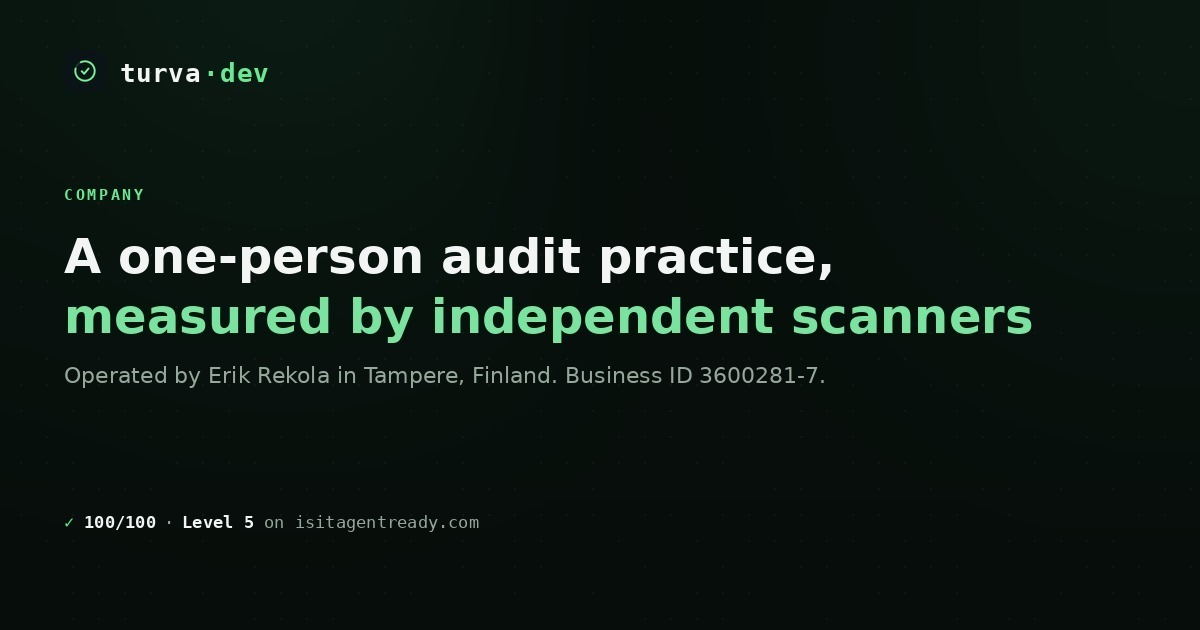
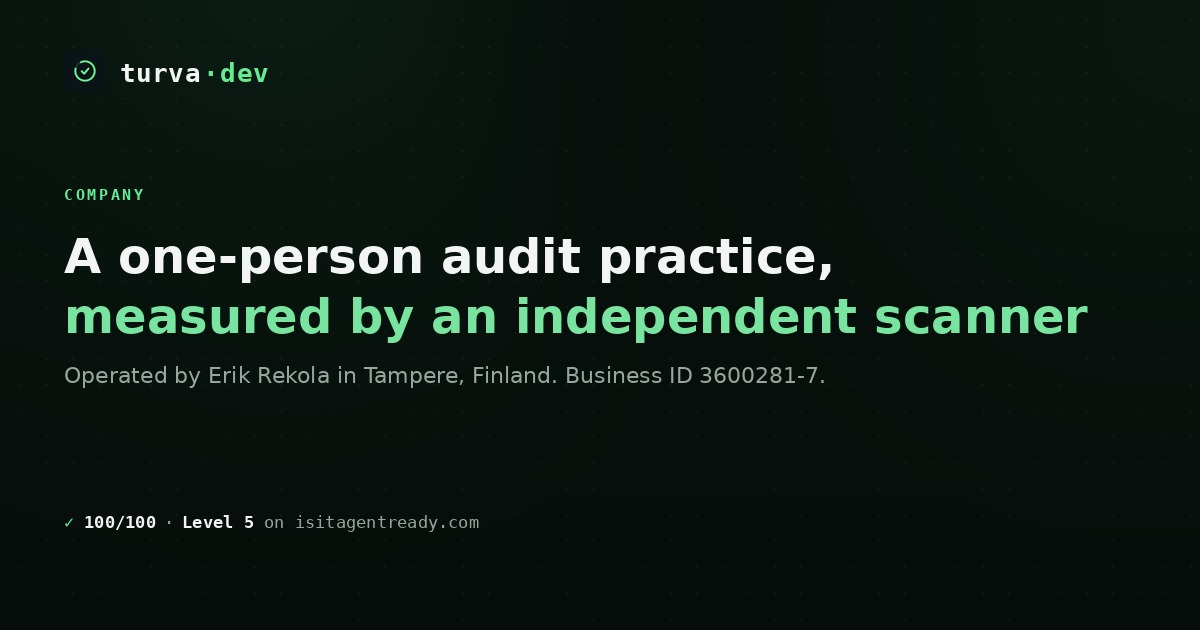
v3.57.0: homepage repetition pass, subpage og:image:alt, two share cards to one scanner

Changed region(s): [[0.3392, 0.4825, 0.925, 0.5429]]

diff --git a/turva-worker/src/worker.js b/turva-worker/src/worker.js
@@ -1,5 +1,5 @@
 // src/worker.js
-// turva.dev worker v3.56.0 - full-Worker audit fixes (2026-07-24 taysauditti). The signed MCP server card no longer declares capabilities the server does not implement: resources and prompts are dropped from capabilities, because the live server declares only tools and answers -32601 Method not found to resources/list, prompts/list and resources/templates/list, so the Ed25519 signature was attesting to a bigger promise than the code delivers (measured 2026-07-24, same version, same minute, cache-buster confirmed). MCP version to 1.2.7, and the card MUST be re-signed with julkaisu/resign-server-card-local.mjs before deploy. The ACP discovery document declares https://turva.dev/api/acp as api_base_url and that URL returned the site's HTML 404; it now returns a small JSON index naming the checkout_sessions resource, the same treatment /api and /api/v1 already had. workers_dev is off in wrangler.jsonc, so the site is served on the turva.dev zone only and not additionally on a *.workers.dev hostname outside the zone's rules. llms.txt, ai-plugin.json and agent.json are untouched, so the server card is the only manifest re-signed. Carries v3.55.1: P2-8 wording fix: the agent-readiness scanner is singular in the three remaining plural copy spots (validator FAQ, buyer guide answer + its FAQ JSON-LD copy, company referee line); the method now reads as one independent scanner plus published security scans everywhere current; content-only change, no signed surface touched, no re-sign. Carries v3.55.0: Codeberg mirrors removed (Tek-64): Codeberg's new Terms of Use (2026-07-24 banner) disallow cryptocurrency-related projects and projects mostly written with generative AI tools, both of which describe this repo (real on-chain wallet in the payment surface, AI-assisted build), so the mirrors were deleted proactively the same day. Changes: a dated July 24 update note added to /blog/moving-source-to-codeberg after the July 21 note, the /tools validator paragraph drops the Codeberg mirror clause (GitHub only), and the sameAs arrays (#business, #person, blog-author JSON-LD and HOME_JSON) now list github.com/erekola instead of codeberg.org/erekola, aligning machine-readable identity with the canonical host (closes the 2026-07-24 audit P2-7). No signed surface changes: llms.txt keeps only the dated post title, so no re-sign. Carries v3.54.1: two Show HN audit corrections (2026-07-24 critical-reader audit): the moving-source-to-codeberg post gains a dated July 21 update note recording the Tek-59 flip back (GitHub canonical, Codeberg push mirror; the July 7 note's "Codeberg stays canonical for every source link" no longer described the live site), and the signed llms.txt gains the missing /blog/finishing-the-optional-commerce-checks entry (in PAGE_MARKDOWN, the /blog index and the sitemap since v3.52.0, never listed in llms.txt), so llms.txt MUST be re-signed (julkaisu/resign-llms-local.mjs) before deploy; SITEMAP_LASTMOD bumped to 2026-07-24. Carries v3.54.0: a trailing slash on any page path now redirects 301 to the canonical slashless URL. Before this only /services/, /company/, /contact/ and /legal/ worked, because those four were hand-written into LEGACY_REDIRECTS; /guides/, /blog/, /tools/, /badge/, /llms-txt-validator/ and every /guides/<slug>/ and /blog/<slug>/ returned 404. The normalizer derives the canonical path from PAGE_MARKDOWN instead of a maintained list, so a new page is covered the day it is added, and a path with no PAGE_MARKDOWN entry still returns an honest 404. Agent-API routes are unaffected: /api and /api/ keep returning the x402 402 challenge and /api/v1 and /api/v1/ keep returning the endpoint index. The Hashnode cross-post branch tolerates a trailing slash too, so /blog/<guide-slug>/ redirects straight to the guide. Carries v3.53.2: reworded the enforcing-the-rate-limit blog post meta description, dropping the orphaned scanner-point clause left over when the StartupHub scoreboard section was removed (no signed surface changed, no re-sign). Carries v3.53.1: finished the StartupHub removal: the remaining dated blog posts cleaned to one scanner (b2b reframed to isitagentready Level, cheaper-pages-revisited and re-checking-the-guides and publishing-an-ai-catalog de-attributed, the rate-limit post's StartupHub scoreboard section removed) and two meta descriptions; the ai-plugin/agent description_for_model made singular and re-signed; internal KB (context.md, audit method docs) aligned. No served surface names StartupHub now outside this dated version-history comment. Carries v3.53.0: StartupHub removed completely site-wide (Tek-60): agent-readiness copy on services, process, contact and JSON-LD moved from two independent scanners to one (isitagentready), with the published security scans as the second independent measurement; three blog posts built on the two-scanner method unpublished (two-scanner-audit-method, auditing-the-auditor, honest-agent-commerce-checks) and three lighter mentions cleaned (cheaper-pages-revisited, agent-readiness-finnish-b2b, moving-off-prerender); the signed llms.txt dropped those three post entries and was re-signed; dated measurement snapshots kept. Carries v3.52.1: footer Business ID linked to the YTJ business register (tietopalvelu.ytj.fi/yritys/3600281-7); display only, no scanner-score change. Carries v3.52.0: new blog post /blog/finishing-the-optional-commerce-checks on completing the optional commerce checks (x402 and MPP green, with the real Stripe product links), added to PAGE_MARKDOWN, the /blog index, sitemap, meta and canonical, plus a Related pointer from the earlier honest-agent-commerce-checks post; agent-readiness and web-security measured dates refreshed to 2026-07-20 with scores unchanged (isitagentready 100/100 Level 5, Hardenize 13/13, Internet.nl 98/100). Carries v3.51.1: homepage scan board and evidence caption now show Commerce 100/100 instead of "optional", reflecting the v3.51.0 commerce-green result (Commerce 50 -> 100 on isitagentready; display only, no scanner-score change). Carries v3.51.0: x402 and MPP driven green on isitagentready without faking settlement: MPP x-payment-info flattened to the single-offer shorthand (intent/method/amount direct, the form the scanner reads and the IETF payment-discovery draft permits); and because the scanner probes GET /api for a 402, the /api and /api/ routes now return the canonical x402 402 challenge (real payTo wallet on Base, resource /api) while the free endpoint index moves to /api/v1. Free discovery stays open at /openapi.json, /.well-known/* and /api/v1; the 402 is a real challenge, settlement stays quote-on-request and no auto-settlement is claimed. Carries v3.50.0: Stripe added as a real fiat/card payment rail (turva.dev's Stripe account is active, charges enabled): three live Payment Links (audit 6500 EUR one-time, advisory 3000 EUR/month, implementation 1500 EUR/day) and a stripe offer (method stripe, amount in EUR cents, currency eur, the Payment Link URL in the description) added alongside the x402 offer in every payable operation's OpenAPI x-payment-info, so MPP payment discovery detects a real method turva actually accepts. This is not the fake Stripe declaration removed earlier: the rail is real now. x402 stays declared too; isitagentready still does not detect it and x402 is optional Commerce, so it is left as an honest red. Carries v3.48.0: x402 migrated v1 to v2 so the sole remaining scanner (isitagentready) can detect the payment surface: CAIP-2 network eip155:8453 (was base), the amount field (was the old required-amount key), x402Version 2, and the standard PAYMENT-REQUIRED base64 header on the 402 responses (serve402 and serveX402Root) alongside the existing accept-payment/x-payment-required. Still quote-on-request: the 402 challenge is real, settlement is not auto-wired. mpp stays honestly red because isitagentready's check only accepts tempo/stripe/lightning/card, not turva's real x402/USDC method. Carries v3.47.0: StartupHub removed site-wide: isitagentready.com (Cloudflare's scanner) is the sole named scanner, the homepage hero, terminal, board, stats and evidence rebuilt to its 100/100 Level 5 result plus the Internet.nl security stat, and #1, A+ and the Why-99 callout dropped; every startuphub.ai reference and link is gone from the front door, README, docs/agent-readiness.md, facts.json and verify.mjs (dated blog posts kept as history). x402-mesh removed from all surfaces (var, route, Link header, api-catalog, OpenAPI, llms.txt, ai.txt) and llms.txt re-signed. OpenAPI x-payment-info reshaped to the MPP standard (offers with intent charge, method x402, amount in USDC base units, currency the USDC contract on Base) plus a top-level x-service-info, so mpp and x402 are declared in the standard discovery form; settlement stays quote-on-request and the 402 challenge is authoritative. Carries v3.46.0: the /llms-txt-validator page now lists the eighth structural check (inline HTML in the file is flagged as a warning, the no-html check the JSON and npm package already emit); What it checks and the validator FAQ updated from seven to eight, no llms.txt change and no re-sign. Carries v3.45.0: blog post /blog/the-twin-is-the-page (the T3 conversion writeup) added to PAGE_MARKDOWN, the /blog index, the sitemap (LASTMOD 2026-07-19) and the signed llms.txt, re-signed. Carries v3.44.0: the services MCP card's duplicated transport bullet dropped from the twin. T3 (Tek-56) complete: all ten card pages render their prose from PAGE_MARKDOWN at request time via the md* helpers after markdownToHtml, so every sentence lives once and a page cannot drift from its markdown twin. Structure stays hand-built (kvs grids, the validator form, FAQ shells, price cards, hero/terminal/board/stats/steps chrome and the contact block on the homepage), and tools/verify.mjs guards the end state: no literal prose paragraphs in card functions outside two named homepage exceptions, every twin section rendered or declared markdown-only. Carries v3.42.0: erikrekola.link dropped from the #person and blog-author sameAs arrays (the two Carries-notes below describe the earlier state): Gravatar is the single profile pointer, matching Wikidata P856. Carries v3.39.0: StartupHub row removed from the footer: the company-profile URL (startuphub.ai/startups/turva-dev) has served 404 to logged-out visitors since 2026-07-17 and a footer link to a 404 fails the read-every-line bar; the leaderboard links (startuphub.ai/agent-readiness) are a different path and stay. Restore the row if the listing returns. Carries v3.38.0: Gravatar footer row with rel="me" to gravatar.com/erekola beside the Mastodon rel="me" row, and gravatar.com/erekola in the #person and blog-author sameAs arrays next to erikrekola.link. Carries v3.37.0: tools in every nav menu (four inline nav blocks + cardPageNav link /tools between blog and company; the page shipped in v3.34.0 but no menu linked it). Carries v3.36.0: SITEMAP_LASTMOD unstuck from 2026-07-02 (now 2026-07-18; bump it whenever page content changes), agent-secret-hygiene gets its own OG card, /checkout redirects to /services, and the MCP server card moves to 1.2.2 (index.ts "registered company" corrected to "registered business", re-signed). Carries v3.35.0 (npm package on /tools + validator FAQ, erikrekola.link in sameAs). Carries v3.34.0 (/tools page), v3.33.0 (rate limit post in signed llms.txt) and the v3.32.0 homepage design patch batch: og:image:alt carries the scanner claims, hero + terminal + evidence rows unified to the corrected attribution (100/100 + Level 5 isitagentready.com, 99/100 + A+ + #1 startuphub.ai), a "Why 99 and not 100?" callout on the scan board in both twins linking the rate limit post, two example paragraphs pruned, audit tag is fixed scope. Standing rate limit state unchanged since v3.29/v3.30: RateLimit-Policy is the only rate limit field sent (draft-11 static policy form), enforcement 100/60 s per IP per CF location via the Workers binding, 429 + Retry-After past it, fail open; the draft RateLimit field is not sent because its r parameter is REQUIRED and limit() returns only { success }.
+// turva.dev worker v3.57.0 - homepage repetition pass (2026-07-26, patch list 4). The "What an agent sees" demo printed the first 14 markdown lines, which included the whole "Audits, advisory, and implementation for product teams" section that renders again immediately below it, so a reader met the same ~120 words twice; the block now stops after that heading and carries a visible truncation marker, and the intro says it shows the opening of the markdown rather than the whole response. The Evidence stat cards are gone: 100/100 was stated three times inside four lines (evidence lede, stat card, evidence bullet) and Internet.nl 98/100 twice (stat card, bullet). The cards were the copies carrying no link, while the bullets that stay carry both the numbers and the scanner URLs the markdown twin needs, so the redundancy was removed from HTML chrome only and PAGE_MARKDOWN was untouched (verify.mjs anchors its agent-readiness n>=3 and security n>=1 Measured counts to the twin). The now-unused .stats and .stat CSS rules went with them. The two hero badge pills were not parallel, the second continued the first, and are one pill now; the verification terminal prints the measurement date, derived from the Evidence lede rather than hardcoded, so the hero no longer shows 100/100 with no date attached and no fifth measured-date sync point was created. The "Who I am" closing sentence dropped two more repetitions of the "either ... or it does not" construction plus the aphoristic "Measurable either way" tail, leaving the single instance in process step 03. Subpage og:image:alt on /services, /company and /blog described nothing ("turva.dev services and pricing", "turva.dev company information", "turva.dev blog") and now describe what each share card actually shows. Two share cards still said "independent scanners" in the plural four days after v3.55.1 made the copy singular: og-company.jpg and og-blog.jpg were regenerated to one scanner. No signed surface touched, no re-sign. Carries v3.56.0: full-Worker audit fixes (2026-07-24 taysauditti). The signed MCP server card no longer declares capabilities the server does not implement: resources and prompts are dropped from capabilities, because the live server declares only tools and answers -32601 Method not found to resources/list, prompts/list and resources/templates/list, so the Ed25519 signature was attesting to a bigger promise than the code delivers (measured 2026-07-24, same version, same minute, cache-buster confirmed). MCP version to 1.2.7, and the card MUST be re-signed with julkaisu/resign-server-card-local.mjs before deploy. The ACP discovery document declares https://turva.dev/api/acp as api_base_url and that URL returned the site's HTML 404; it now returns a small JSON index naming the checkout_sessions resource, the same treatment /api and /api/v1 already had. workers_dev is off in wrangler.jsonc, so the site is served on the turva.dev zone only and not additionally on a *.workers.dev hostname outside the zone's rules. llms.txt, ai-plugin.json and agent.json are untouched, so the server card is the only manifest re-signed. Carries v3.55.1: P2-8 wording fix: the agent-readiness scanner is singular in the three remaining plural copy spots (validator FAQ, buyer guide answer + its FAQ JSON-LD copy, company referee line); the method now reads as one independent scanner plus published security scans everywhere current; content-only change, no signed surface touched, no re-sign. Carries v3.55.0: Codeberg mirrors removed (Tek-64): Codeberg's new Terms of Use (2026-07-24 banner) disallow cryptocurrency-related projects and projects mostly written with generative AI tools, both of which describe this repo (real on-chain wallet in the payment surface, AI-assisted build), so the mirrors were deleted proactively the same day. Changes: a dated July 24 update note added to /blog/moving-source-to-codeberg after the July 21 note, the /tools validator paragraph drops the Codeberg mirror clause (GitHub only), and the sameAs arrays (#business, #person, blog-author JSON-LD and HOME_JSON) now list github.com/erekola instead of codeberg.org/erekola, aligning machine-readable identity with the canonical host (closes the 2026-07-24 audit P2-7). No signed surface changes: llms.txt keeps only the dated post title, so no re-sign. Carries v3.54.1: two Show HN audit corrections (2026-07-24 critical-reader audit): the moving-source-to-codeberg post gains a dated July 21 update note recording the Tek-59 flip back (GitHub canonical, Codeberg push mirror; the July 7 note's "Codeberg stays canonical for every source link" no longer described the live site), and the signed llms.txt gains the missing /blog/finishing-the-optional-commerce-checks entry (in PAGE_MARKDOWN, the /blog index and the sitemap since v3.52.0, never listed in llms.txt), so llms.txt MUST be re-signed (julkaisu/resign-llms-local.mjs) before deploy; SITEMAP_LASTMOD bumped to 2026-07-24. Carries v3.54.0: a trailing slash on any page path now redirects 301 to the canonical slashless URL. Before this only /services/, /company/, /contact/ and /legal/ worked, because those four were hand-written into LEGACY_REDIRECTS; /guides/, /blog/, /tools/, /badge/, /llms-txt-validator/ and every /guides/<slug>/ and /blog/<slug>/ returned 404. The normalizer derives the canonical path from PAGE_MARKDOWN instead of a maintained list, so a new page is covered the day it is added, and a path with no PAGE_MARKDOWN entry still returns an honest 404. Agent-API routes are unaffected: /api and /api/ keep returning the x402 402 challenge and /api/v1 and /api/v1/ keep returning the endpoint index. The Hashnode cross-post branch tolerates a trailing slash too, so /blog/<guide-slug>/ redirects straight to the guide. Carries v3.53.2: reworded the enforcing-the-rate-limit blog post meta description, dropping the orphaned scanner-point clause left over when the StartupHub scoreboard section was removed (no signed surface changed, no re-sign). Carries v3.53.1: finished the StartupHub removal: the remaining dated blog posts cleaned to one scanner (b2b reframed to isitagentready Level, cheaper-pages-revisited and re-checking-the-guides and publishing-an-ai-catalog de-attributed, the rate-limit post's StartupHub scoreboard section removed) and two meta descriptions; the ai-plugin/agent description_for_model made singular and re-signed; internal KB (context.md, audit method docs) aligned. No served surface names StartupHub now outside this dated version-history comment. Carries v3.53.0: StartupHub removed completely site-wide (Tek-60): agent-readiness copy on services, process, contact and JSON-LD moved from two independent scanners to one (isitagentready), with the published security scans as the second independent measurement; three blog posts built on the two-scanner method unpublished (two-scanner-audit-method, auditing-the-auditor, honest-agent-commerce-checks) and three lighter mentions cleaned (cheaper-pages-revisited, agent-readiness-finnish-b2b, moving-off-prerender); the signed llms.txt dropped those three post entries and was re-signed; dated measurement snapshots kept. Carries v3.52.1: footer Business ID linked to the YTJ business register (tietopalvelu.ytj.fi/yritys/3600281-7); display only, no scanner-score change. Carries v3.52.0: new blog post /blog/finishing-the-optional-commerce-checks on completing the optional commerce checks (x402 and MPP green, with the real Stripe product links), added to PAGE_MARKDOWN, the /blog index, sitemap, meta and canonical, plus a Related pointer from the earlier honest-agent-commerce-checks post; agent-readiness and web-security measured dates refreshed to 2026-07-20 with scores unchanged (isitagentready 100/100 Level 5, Hardenize 13/13, Internet.nl 98/100). Carries v3.51.1: homepage scan board and evidence caption now show Commerce 100/100 instead of "optional", reflecting the v3.51.0 commerce-green result (Commerce 50 -> 100 on isitagentready; display only, no scanner-score change). Carries v3.51.0: x402 and MPP driven green on isitagentready without faking settlement: MPP x-payment-info flattened to the single-offer shorthand (intent/method/amount direct, the form the scanner reads and the IETF payment-discovery draft permits); and because the scanner probes GET /api for a 402, the /api and /api/ routes now return the canonical x402 402 challenge (real payTo wallet on Base, resource /api) while the free endpoint index moves to /api/v1. Free discovery stays open at /openapi.json, /.well-known/* and /api/v1; the 402 is a real challenge, settlement stays quote-on-request and no auto-settlement is claimed. Carries v3.50.0: Stripe added as a real fiat/card payment rail (turva.dev's Stripe account is active, charges enabled): three live Payment Links (audit 6500 EUR one-time, advisory 3000 EUR/month, implementation 1500 EUR/day) and a stripe offer (method stripe, amount in EUR cents, currency eur, the Payment Link URL in the description) added alongside the x402 offer in every payable operation's OpenAPI x-payment-info, so MPP payment discovery detects a real method turva actually accepts. This is not the fake Stripe declaration removed earlier: the rail is real now. x402 stays declared too; isitagentready still does not detect it and x402 is optional Commerce, so it is left as an honest red. Carries v3.48.0: x402 migrated v1 to v2 so the sole remaining scanner (isitagentready) can detect the payment surface: CAIP-2 network eip155:8453 (was base), the amount field (was the old required-amount key), x402Version 2, and the standard PAYMENT-REQUIRED base64 header on the 402 responses (serve402 and serveX402Root) alongside the existing accept-payment/x-payment-required. Still quote-on-request: the 402 challenge is real, settlement is not auto-wired. mpp stays honestly red because isitagentready's check only accepts tempo/stripe/lightning/card, not turva's real x402/USDC method. Carries v3.47.0: StartupHub removed site-wide: isitagentready.com (Cloudflare's scanner) is the sole named scanner, the homepage hero, terminal, board, stats and evidence rebuilt to its 100/100 Level 5 result plus the Internet.nl security stat, and #1, A+ and the Why-99 callout dropped; every startuphub.ai reference and link is gone from the front door, README, docs/agent-readiness.md, facts.json and verify.mjs (dated blog posts kept as history). x402-mesh removed from all surfaces (var, route, Link header, api-catalog, OpenAPI, llms.txt, ai.txt) and llms.txt re-signed. OpenAPI x-payment-info reshaped to the MPP standard (offers with intent charge, method x402, amount in USDC base units, currency the USDC contract on Base) plus a top-level x-service-info, so mpp and x402 are declared in the standard discovery form; settlement stays quote-on-request and the 402 challenge is authoritative. Carries v3.46.0: the /llms-txt-validator page now lists the eighth structural check (inline HTML in the file is flagged as a warning, the no-html check the JSON and npm package already emit); What it checks and the validator FAQ updated from seven to eight, no llms.txt change and no re-sign. Carries v3.45.0: blog post /blog/the-twin-is-the-page (the T3 conversion writeup) added to PAGE_MARKDOWN, the /blog index, the sitemap (LASTMOD 2026-07-19) and the signed llms.txt, re-signed. Carries v3.44.0: the services MCP card's duplicated transport bullet dropped from the twin. T3 (Tek-56) complete: all ten card pages render their prose from PAGE_MARKDOWN at request time via the md* helpers after markdownToHtml, so every sentence lives once and a page cannot drift from its markdown twin. Structure stays hand-built (kvs grids, the validator form, FAQ shells, price cards, hero/terminal/board/stats/steps chrome and the contact block on the homepage), and tools/verify.mjs guards the end state: no literal prose paragraphs in card functions outside two named homepage exceptions, every twin section rendered or declared markdown-only. Carries v3.42.0: erikrekola.link dropped from the #person and blog-author sameAs arrays (the two Carries-notes below describe the earlier state): Gravatar is the single profile pointer, matching Wikidata P856. Carries v3.39.0: StartupHub row removed from the footer: the company-profile URL (startuphub.ai/startups/turva-dev) has served 404 to logged-out visitors since 2026-07-17 and a footer link to a 404 fails the read-every-line bar; the leaderboard links (startuphub.ai/agent-readiness) are a different path and stay. Restore the row if the listing returns. Carries v3.38.0: Gravatar footer row with rel="me" to gravatar.com/erekola beside the Mastodon rel="me" row, and gravatar.com/erekola in the #person and blog-author sameAs arrays next to erikrekola.link. Carries v3.37.0: tools in every nav menu (four inline nav blocks + cardPageNav link /tools between blog and company; the page shipped in v3.34.0 but no menu linked it). Carries v3.36.0: SITEMAP_LASTMOD unstuck from 2026-07-02 (now 2026-07-18; bump it whenever page content changes), agent-secret-hygiene gets its own OG card, /checkout redirects to /services, and the MCP server card moves to 1.2.2 (index.ts "registered company" corrected to "registered business", re-signed). Carries v3.35.0 (npm package on /tools + validator FAQ, erikrekola.link in sameAs). Carries v3.34.0 (/tools page), v3.33.0 (rate limit post in signed llms.txt) and the v3.32.0 homepage design patch batch: og:image:alt carries the scanner claims, hero + terminal + evidence rows unified to the corrected attribution (100/100 + Level 5 isitagentready.com, 99/100 + A+ + #1 startuphub.ai), a "Why 99 and not 100?" callout on the scan board in both twins linking the rate limit post, two example paragraphs pruned, audit tag is fixed scope. Standing rate limit state unchanged since v3.29/v3.30: RateLimit-Policy is the only rate limit field sent (draft-11 static policy form), enforcement 100/60 s per IP per CF location via the Workers binding, 429 + Retry-After past it, fail open; the draft RateLimit field is not sent because its r parameter is REQUIRED and limit() returns only { success }.
 
 const INDEXNOW_KEY = "9b7e4c21a8f3d65e0c1b9a4d7f2e8c63";
 
@@ -1413,7 +1413,7 @@ The result is checkable, not asserted. For agent-readiness that is the scanner n
 
 The work is done by one person under a registered business. My background is engineering: measurement, testing, and reducing things to what actually matters. I have worked in international companies for years, and I keep only the tools and methods that hold up when the output is checked line by line.
 
-The work stays measurable on purpose. Agent-readiness is a property a scanner reads, higher next week than this week or not. The wider work holds to the same test. The data an agent acts on either arrives intact or it does not, and the boundary you set either holds or it does not. Measurable either way.
+The work stays measurable on purpose. Agent-readiness is a property a scanner reads, higher next week than this week or not. The wider work holds to the same test. The data an agent acts on arrives intact or the test says where it broke, and the boundary you set holds to exactly what it claims.
 
 ## Contact
 
@@ -2536,7 +2536,7 @@ var OPENAPI_SPEC = JSON.stringify({
   "openapi": "3.1.0",
   "info": {
     "title": "turva.dev Agent API",
-    "version": "3.56.0",
+    "version": "3.57.0",
     "description": "Read-only metadata + payable endpoints for AI agents. MPP + x402 + ACP enabled on /api/agent/* routes.",
     "contact": { "name": "Erik Rekola", "email": "info@turva.dev", "url": "https://turva.dev/" },
     "license": { "name": "Proprietary", "url": "https://turva.dev/legal" }
@@ -2778,7 +2778,7 @@ var A2A_AGENT_CARD = JSON.stringify({
   "description": "Public read-only agent interface for turva.dev, an independent agent-readiness audit and advisory business operated by Erik Rekola. Exposes the service catalog with prices, contact channels, and company information over HTTP+JSON. No authentication and no write operations.",
   "url": "https://turva.dev",
   "preferredTransport": "HTTP+JSON",
-  "version": "3.56.0",
+  "version": "3.57.0",
   "provider": {
     "organization": "turva.dev",
     "url": "https://turva.dev/"
@@ -3256,7 +3256,7 @@ var WEBMCP_SCRIPT = `<script>
 })();
 <\/script>`;
 
-var SITEMAP_LASTMOD = "2026-07-24";
+var SITEMAP_LASTMOD = "2026-07-26";
 var SITEMAP_ENTRIES = [
   ["/", "weekly", "1.0"],
   ["/services", "monthly", "0.9"],
@@ -3487,7 +3487,7 @@ var META_BY_PATH = {
     title: "Blog: notes on AI agents and agent-readiness | turva.dev",
     description: "Notes on AI agents and the work of letting them read a site and act on a system safely. Dated entries, checked against an independent scanner.",
     image: "/og-blog.jpg",
-    imageAlt: "turva.dev blog"
+    imageAlt: "turva.dev blog card: dated notes on AI agents and the work of letting them act."
   },
   "/blog/cheaper-pages-for-agents": {
     title: "What an agent pays to read your site | turva.dev",
@@ -3572,13 +3572,13 @@ var META_BY_PATH = {
     title: "Services: audit, advisory and implementation · turva.dev",
     description: "Audit €6,500, advisory €3,000/month, implementation €1,500/day. The audit measures agent-readiness and answer engine optimization (AEO). Async-only.",
     image: "/og-services.jpg",
-    imageAlt: "turva.dev services and pricing"
+    imageAlt: "turva.dev services card: audit €6,500, advisory €3,000 per month, implementation €1,500 per day, async-only."
   },
   "/company": {
     title: "Company: Erik Rekola, Tampere, Finland · turva.dev",
     description: "turva.dev is operated by Erik Rekola as a Finnish sole proprietorship. Business ID 3600281-7, based in Tampere. Six years in engineering, 2015 to 2021.",
     image: "/og-company.jpg",
-    imageAlt: "turva.dev company information"
+    imageAlt: "turva.dev company card: a one-person audit practice measured by an independent scanner, operated by Erik Rekola in Tampere, Finland."
   },
   "/contact": {
     title: "Contact: email, Signal or LinkedIn, async-only · turva.dev",
@@ -4693,6 +4693,9 @@ function serveHomeHtml(canonicalUrl) {
   const apply = mdParas("/", "Where this applies", 2);
   const exCells = mdLists("/", "Where this applies")[0].map((x) => `<div class="ex">${x}</div>`).join("\n      ");
   const ev = mdParas("/", "Evidence", 6).map(mdTidyUrlText);
+  const evMeasured = (ev[0].match(/Measured (\d{4}-\d{2}-\d{2})/) || [])[1] || "";
+  const tmCursor = evMeasured ? "" : '<span class="cursor"></span>';
+  const tmMeasured = evMeasured ? `<div class="tm-out">measured ${evMeasured}<span class="cursor"></span></div>` : "";
   const evLists = mdLists("/", "Evidence").map((l) => l.map((x) => `<li>${mdTidyUrlText(x)}</li>`).join("\n      "));
   const proc = mdParas("/", "The process has three stages and no surprises", 6);
   const stepBody = (t) => t.slice(t.indexOf(". ") + 2);
@@ -4777,11 +4780,6 @@ strong{color:#F2F4F3;}
 .ex{position:relative;background:rgba(255,255,255,0.02);border:0.5px solid rgba(255,255,255,0.1);border-radius:10px;padding:.7rem .8rem .7rem 1.7rem;font-size:.9rem;color:#C9D1CE;transition:border-color .15s ease,transform .15s ease;}
 .ex:hover{border-color:rgba(93,241,143,0.38);transform:translateY(-1px);}
 .ex::before{content:"›";position:absolute;left:.75rem;top:.62rem;color:#5DF18F;font-family:ui-monospace,SFMono-Regular,Menlo,monospace;font-weight:700;}
-.stats{display:grid;grid-template-columns:repeat(auto-fit,minmax(165px,1fr));gap:.6rem;margin:.3rem 0 1.2rem;}
-.stat{background:rgba(93,241,143,0.05);border:1px solid rgba(93,241,143,0.18);border-radius:12px;padding:.95rem 1rem;transition:border-color .15s ease,transform .15s ease;}
-.stat:hover{border-color:rgba(93,241,143,0.5);transform:translateY(-1px);}
-.stat-v{display:block;font-family:ui-monospace,SFMono-Regular,Menlo,monospace;font-size:1.55rem;font-weight:700;color:#5DF18F;line-height:1;margin:0 0 .4rem;}
-.stat-l{display:block;font-size:.82rem;color:#9AA3A0;line-height:1.45;}
 .evlist{margin:0 0 1.05rem;padding:0 0 0 1.2rem;color:#C9D1CE;}
 .evlist li{margin:0 0 .5rem;font-size:.92rem;}
 .steps{display:grid;grid-template-columns:repeat(auto-fit,minmax(175px,1fr));gap:.7rem;margin:.2rem 0 1.3rem;}
@@ -4841,8 +4839,7 @@ ${FOOTER_CSS}
     <div class="hero-row">
       <div class="hero-left">
         <ul class="badges">
-          <li><b>100/100</b> &middot; Level 5</li>
-          <li>Agent-Native on isitagentready.com</li>
+          <li><b>100/100</b> &middot; Level 5 &middot; Agent-Native on isitagentready.com</li>
         </ul>
         <div class="cta">
           <a class="btn" href="mailto:info@turva.dev?subject=Agent-readiness%20audit">Request an audit</a>
@@ -4855,7 +4852,8 @@ ${FOOTER_CSS}
           <div class="tm-bar"><span class="tm-dot r"></span><span class="tm-dot y"></span><span class="tm-dot g"></span><span class="tm-title">turva@audit · verify</span></div>
           <div class="tm-body">
             <div class="tm-cmd"><span class="pr">&#8250;</span>turva verify --source isitagentready.com</div>
-            <div class="tm-out">&#10003; isitagentready.com &middot; <b>100/100</b> &middot; level 5 &middot; agent-native<span class="cursor"></span></div>
+            <div class="tm-out">&#10003; isitagentready.com &middot; <b>100/100</b> &middot; level 5 &middot; agent-native${tmCursor}</div>
+            ${tmMeasured}
           </div>
         </div>
       </div>
@@ -4878,10 +4876,10 @@ ${FOOTER_CSS}
   </section>
   <section class="sec">
     <h2>What an agent sees on this page</h2>
-    <p>Every page on this site is also served as plain markdown to any agent that asks for it, at the same URL, at a fraction of the token cost of the HTML. The block below is generated from the same markdown an agent receives.</p>
+    <p>Every page on this site is also served as plain markdown to any agent that asks for it, at the same URL, at a fraction of the token cost of the HTML. The block below is the opening of that markdown, generated from the same string an agent receives.</p>
     <div class="aview">
       <p class="aview-cmd">curl -H "Accept: text/markdown" https://turva.dev/</p>
-      <pre><code>${escapeHtml(HOME_MARKDOWN.split("\n").slice(0, 14).join("\n"))}</code></pre>
+      <pre><code>${escapeHtml(HOME_MARKDOWN.split("\n").slice(0, 7).join("\n") + "\n[Truncated. The full document continues in markdown.]")}</code></pre>
     </div>
     <p><a href="/guides/markdown-for-agents">How markdown content negotiation works.</a></p>
   </section>
@@ -4903,10 +4901,6 @@ ${FOOTER_CSS}
   <section class="sec">
     <h2>Evidence</h2>
     <p>${ev[0]}</p>
-    <div class="stats">
-      <div class="stat"><span class="stat-v">100/100 &middot; Level 5</span><span class="stat-l">Agent-Native on isitagentready.com</span></div>
-      <div class="stat"><span class="stat-v">98/100</span><span class="stat-l">web security on internet.nl</span></div>
-    </div>
     <ul class="evlist">
       ${evLists[0]}
     </ul>
